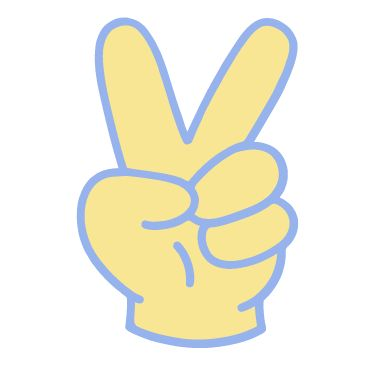
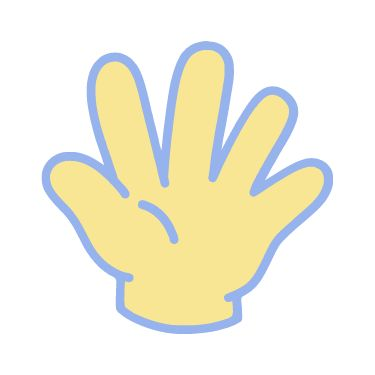
確認テンプレ

Changed region(s): [[0.088, 0.0293, 0.9093, 0.9387]]

diff --git a/index1.html b/index1.html
@@ -7,15 +7,12 @@
         <meta name="viewport" content="width=device-width, initial-scale=1.0">
         <title>じゃんけんゲーム！</title>
     </head>
-
     <script>
-        // サイコロ関数の作成
+        // ①サイコロ関数の作成
         function Saikoro() {
-
-            // JavaScriptでの乱数の発生と端数切り捨ての処理
+            // ②JavaScriptでの乱数の発生と端数切り捨ての処理
             let janken_p = Math.floor( Math.random() * 3) +1;
-
-            // Switch文でじゃんけんの出力を作成
+            // ③Switch文でじゃんけんの出力を作成
             switch(janken_p){
                 case 1: $janken_p = "パー";
                 break;
@@ -24,14 +21,12 @@
                 case 3: $janken_p = "チョキ";
                 break;
             }
-            // ドキュメントで指定のIDに対して出力する内容をセットする処理作成⭐
-            document.getElementById("").innerHTML = $janken_p;
-            document.getElementById("").src= "" + janken_p + "";
-
-            // JavaScriptでの乱数の発生と端数切り捨ての処理
+            // ④ドキュメントで指定のIDに対して出力する内容をセットする処理作成
+            document.getElementById("janken_p_html").innerHTML = $janken_p;
+            document.getElementById("Player_src").src= "img/janken/janken_" + janken_p + ".jpg";
+            // ⑤JavaScriptでの乱数の発生と端数切り捨ての処理
             let janken_a = Math.floor( Math.random() * 3) +1;
-
-            // Switch文でじゃんけんの出力を作成
+            // ⑥Switch文でじゃんけんの出力を作成
             switch(janken_a){
                 case 1: $janken_a = "パー";
                 break;
@@ -40,76 +35,77 @@
                 case 3: $janken_a = "チョキ";
                 break;
             }
-            // ドキュメントで指定のIDに対して出力する内容をセットする処理作成⭐
-            document.getElementById("").innerHTML = $janken_a;
-            document.getElementById("").src= "" + janken_a + "";
+            // ⑦ドキュメントで指定のIDに対して出力する内容をセットする処理作成
+            document.getElementById("janken_a_html").innerHTML = $janken_a;
+            document.getElementById("ai_src").src= "img/janken/janken_" + janken_a + ".jpg";
             
-            // じゃんけんに必須な勝ち負けの判定処理を作成⭐
+            // ⑧じゃんけんに必須な勝ち負けの判定処理を作成
             switch(janken_p){
                 case 1:switch(janken_a){
-                        case 1: $kekka = "";
+                        case 1: $kekka = "あいこ";
                         break;
-                        case 2: $kekka = "";
+                        case 2: $kekka = "勝ち";
                         break;
-                        case 3: $kekka = "";
+                        case 3: $kekka = "負け";
                         break;
                         }
                 break;
                 case 2:switch(janken_a){
-                        case 1: $kekka = "";
+                        case 1: $kekka = "負け";
                         break;
-                        case 2: $kekka = "";
+                        case 2: $kekka = "あいこ";
                         break;
-                        case 3: $kekka = "";
+                        case 3: $kekka = "勝ち";
                         break;
                         }
                 break;
                 case 3:switch(janken_a){
-                        case 1: $kekka = "";
+                        case 1: $kekka = "勝ち";
                         break;
-                        case 2: $kekka = "";
+                        case 2: $kekka = "負け";
                         break;
-                        case 3: $kekka = "";
+                        case 3: $kekka = "あいこ";
                         break;
                         }
                 break;
             }
-            // ドキュメントで指定のIDに対して出力する内容をセットする処理作成⭐
-            document.getElementById("").innerHTML = $kekka;
+            // ⑨ドキュメントで指定のIDに対して出力する内容をセットする処理作成
+            document.getElementById("play_html").innerHTML = $kekka;
         }
     </script>
-
     <body>
-        <!-- じゃんけんの結果出力箇所作成 -->
-        <p id="play"></p><br>
-
-        <!-- じゃんけん開始ボタンを作成して関数セット！ -->
-        <p id = "but"><a onclick="Saikoro();">じゃんけん！</a></p>
-
-        <div id = "attribute">
-
-            <!-- プレイヤー側の出力箇所を作成 -->
-            <div class="item">
-                <h2>プレイヤー</h2>
-                <!-- プレイヤーのじゃんけん画像出力箇所作成 -->
-                <p><img id="Player" src="img/furee.jpg" ></p>
-                <!-- プレイヤーのじゃんけんの文字出力箇所作成 -->
-                <p id="janken_p"></p>
+        <div class="box">
+            <!-- じゃんけん開始ボタンを作成して関数セット！ -->
+            <div class="botun">
+                <p class="btn btn--orange btn--radius" ><a onclick="Saikoro();">じゃんけん！</a></p>
             </div>
 
-            <!-- AI側の出力箇所を作成 -->
-            <div class="item">
-                <h2>AI</h2>
-                <!-- AIのじゃんけん画像出力箇所作成 -->
-                <p><img id="ai" src="img/furee.jpg" ></p>
-                <!-- AIののじゃんけんの文字出力箇所作成 -->
-                <p id="janken_a"></p>
-            </div>
+            <div id = "attribute">
+                <!-- プレイヤー側の出力箇所を作成 -->
+                <div class="item">
+                    <h2>プレイヤー</h2>
+                    <!-- プレイヤーのじゃんけん画像出力箇所作成 -->
+                    <p><img id="Player_src" src="img/furee.jpg" ></p>
+                    <!-- プレイヤーのじゃんけんの文字出力箇所作成 -->
+                    <p id="janken_p_html"></p>
+                </div>
 
+                <!-- AI側の出力箇所を作成 -->
+                <div class="item">
+                    <h2>AI</h2>
+                    <!-- AIのじゃんけん画像出力箇所作成 -->
+                    <p><img id="ai_src" src="img/furee.jpg" ></p>
+                    <!-- AIののじゃんけんの文字出力箇所作成 -->
+                    <p id="janken_a_html"></p>
+                </div>
+
+            </div>
+            <!-- じゃんけんの結果出力箇所作成 -->
+            <div class="frame">
+                <p id="play_html"></p>
+            </div>
         </div>
-
     </body>
-
 </html>
 
 

diff --git a/css/style.css b/css/style.css
@@ -1,8 +1,16 @@
+/* bodyのCSS作成 */
+body{
+  background-color: #ffee0080;
+  display: flex;
+  justify-content: center;
+}
+
 #attribute{
     display: flex;
-    flex-direction: row;
+    text-align: center;
 }
-#Player,#ai{
+
+#Player_src,#ai_src{
     width: 60%;
     height: 150px;
     padding: 0em 1em;
@@ -11,9 +19,68 @@
     color: #40ff00;
     background: #FFF;
     border: solid 6px #0175fabd;
-    border-radius: 20px;
-    
+    border-radius: 20px;    
 }
-p{
-    text-align: center;
+
+.frame{
+    margin-left: 150px;
+    color: #0003a5;
+    background: rgba(255, 255, 255, 0);
+    font-size: 200%;
+    font-family: 'Segoe UI', Tahoma, Geneva, Verdana, sans-serif;
+}
+
+#play_html{
+    width: 100px;
+}
+
+
+
+/* ボタンCSS作成 */
+*,
+*:before,
+*:after {
+  -webkit-box-sizing: inherit;
+  box-sizing: inherit;
+}
+
+.btn,
+a.btn,
+button.btn {
+  font-size: 1.6rem;
+  font-weight: 700;
+  line-height: 1.5;
+  position: relative;
+  display: inline-block;
+  padding: 1rem 4rem;
+  cursor: pointer;
+  -webkit-user-select: none;
+  -moz-user-select: none;
+  -ms-user-select: none;
+  user-select: none;
+  -webkit-transition: all 0.3s;
+  transition: all 0.3s;
+  text-align: center;
+  vertical-align: middle;
+  text-decoration: none;
+  letter-spacing: 0.1em;
+  color: #212529;
+  border-radius: 0.5rem;
+  margin-left: 12%;
+}
+
+.btn--orange,
+a.btn--orange {
+  color: #fff;
+  background-color: #eb6100;
+}
+
+.btn--orange:hover,
+a.btn--orange:hover {
+  color: #fff;
+  background: #f56500;
+}
+
+a.btn--radius {
+  border-radius: 100vh;
 }

diff --git a/README.md b/README.md
@@ -1,1 +1,1 @@
-# team_F
+# GAME.vr.2
